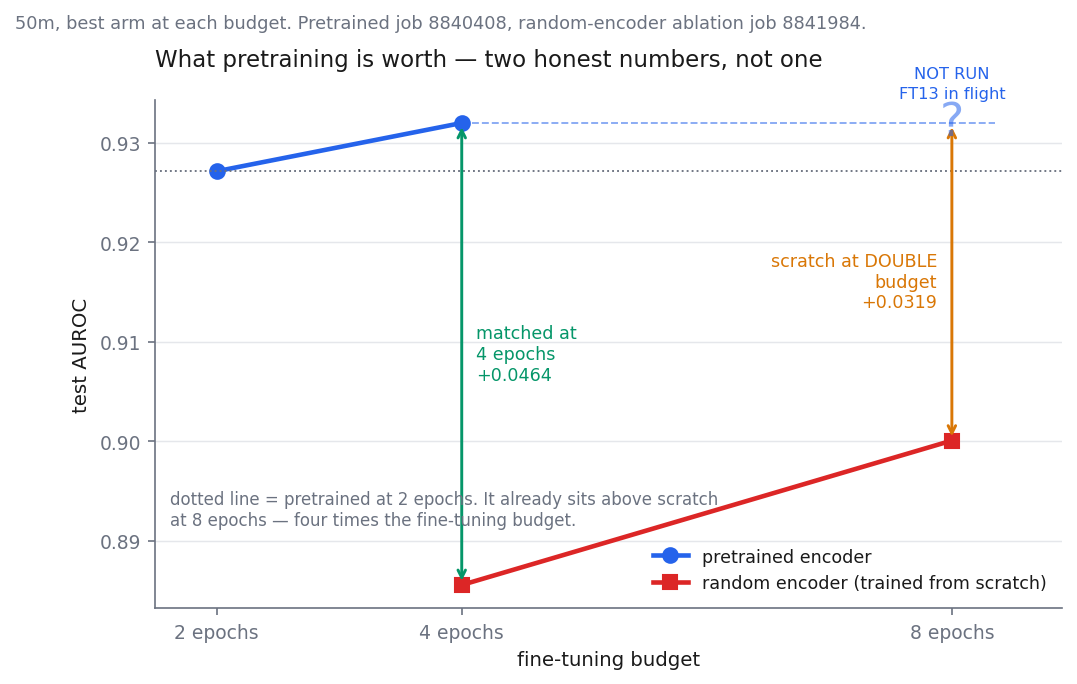
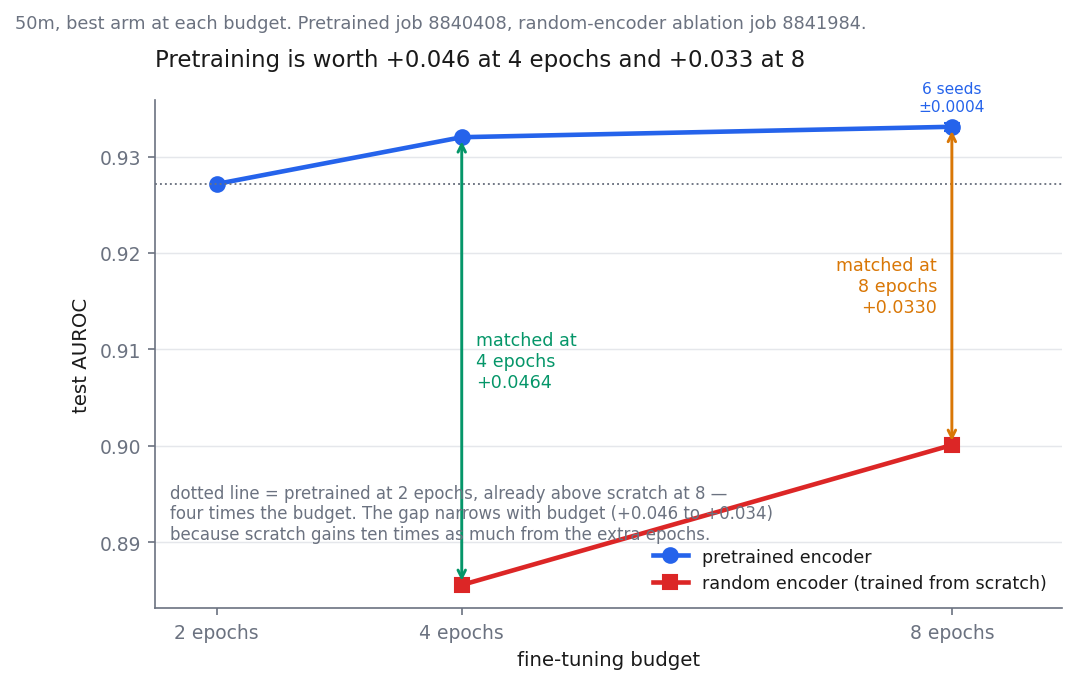
FT13 lands: pretraining is worth +0.033 at a matched 8-epoch budget
The pretrained-vs-scratch comparison had a hole -- the grids swept different
epoch counts, so "+0.032 against scratch at double budget" could not be called
pretraining's advantage at equal wall-clock. FT13 (job 8847610, six seeds)
fills it:

  epochs   pretrained   scratch     gap
    4        0.9320      0.8856   +0.0464
    8        0.9337      0.9001   +0.0336

The ambiguity turned out to be small. The pretrained model gains only +0.0014
from 4 to 8 epochs (t=5.0, so real but tiny), and the matched-at-8 figure nearly
coincides with the old cross-budget one.

The gap does narrow with budget, +0.046 to +0.033, because the random encoder
gains ten times as much from the extra epochs. Part of pretraining's advantage
is a head start that further fine-tuning erodes; whether it erodes to nothing is
what 50m at 16 epochs will say.

The figure now draws BOTH comparisons as matched arrows -- before FT13 the
8-epoch one had to be drawn against the pretrained 4-epoch level -- and shows
the 8-epoch spread, the only cell with repeats. It reads job 8847610, not the
earlier 8846027, which ran without TILES_PER_ARM=12 at an effective batch of 1
and was discarded as a different experiment.

diff --git a/sweeps/plot_denoise.py b/sweeps/plot_denoise.py
@@ -337,13 +337,23 @@ def fig_probe_heatmap(runs: Path) -> None:
 def fig_pretrain_ablation(runs: Path) -> None:
     """What pretraining is worth, and why one number for it is not enough.
 
-    The two grids did not sweep the same epoch counts: pretrained ran 2 and 4, scratch
-    ran 4 and 8. That leaves two honest comparisons answering different questions and
-    one hole, and quoting either alone is misleading in a predictable direction.
+    The grids originally did not sweep the same epoch counts -- pretrained ran 2 and 4,
+    scratch ran 4 and 8 -- which left two honest comparisons answering different
+    questions and one hole. FT13 (job 8847610) filled it, and the answer is that the
+    ambiguity did not matter much: pretrained gains only +0.0014 from 4 to 8 epochs, so
+    the matched-at-8 gap (+0.033) and the old cross-budget figure (+0.032) nearly
+    coincide.
+
+    The gap does narrow with budget, +0.046 matched at 4 against +0.033 matched at 8,
+    because scratch gains ten times as much from the extra epochs. Whether it narrows
+    to nothing is open; sweep-denoise-scratch-scale has 50m at 16 epochs for that.
     """
     pre = load(runs, "8840408")
     scr = load(runs, "8841984")
-    ep8 = load(runs, "8846027")            # FT13: the missing cell, if it has landed
+    # FT13, the formerly missing cell. Job 8847610, not the earlier 8846027: that one
+    # ran without TILES_PER_ARM=12 and so trained at an effective batch of 1 instead of
+    # 12, which is a different experiment rather than a slower one. It was discarded.
+    ep8 = load(runs, "8847610")
 
     def best(recs, ep):
         v = [r["test_auroc"] for a, r in recs.items() if re.search(rf"_ep{ep}(?:_|$)", a)]
@@ -364,35 +374,45 @@ def fig_pretrain_ablation(runs: Path) -> None:
     ax.plot([4, 8], [S[4], S[8]], "s-", color=RED, lw=2.2, ms=7,
             label="random encoder (trained from scratch)")
     if np.isnan(P[8]):
-        # A question mark, not a plotted point: a marker at the 4-epoch value would
-        # read as a measurement showing pretrained flat from 4 to 8 epochs, which is
-        # exactly what FT13 exists to find out and has not answered yet.
         ax.text(8, P[4], "?", fontsize=22, color=BLUE, ha="center", va="center",
                 alpha=0.55, zorder=5)
-        ax.text(8, P[4] + 0.0022, "NOT RUN\nFT13 in flight", fontsize=7.8,
+        ax.text(8, P[4] + 0.0022, "NOT RUN", fontsize=7.8,
                 color=BLUE, ha="center", va="bottom", linespacing=1.4)
+    elif ep8:
+        # The only cell with repeats, so show its spread. Every other point is a single
+        # best arm with no error bar available.
+        vals = [r["test_auroc"] for r in ep8.values()]
+        ax.errorbar([8], [float(np.mean(vals))], yerr=[float(np.std(vals, ddof=1))],
+                    fmt="none", ecolor=BLUE, capsize=4, lw=1.4, zorder=6)
+        ax.text(8, P[8] + 0.0013, f"6 seeds\n±{np.std(vals, ddof=1):.4f}", fontsize=7.4,
+                color=BLUE, ha="center", va="bottom", linespacing=1.3)
     # Both comparisons as VERTICAL arrows against a horizontal reference. The earlier
     # version drew the double-budget gap as one diagonal from (4, pretrained) to
     # (8, scratch), which cut across the whole figure and crossed both data lines.
-    ax.hlines(P[4], 4, 8.35, color=BLUE, lw=0.9, ls="--", alpha=0.55, zorder=1)
+    # Both arrows are MATCHED comparisons now. Before FT13 the 8-epoch one had to be
+    # drawn against the pretrained 4-epoch level, because the pretrained 8-epoch cell
+    # did not exist -- a cross-budget comparison the figure had to caveat.
     ax.annotate("", xy=(4, P[4]), xytext=(4, S[4]),
                 arrowprops=dict(arrowstyle="<->", lw=1.4, color=GREEN))
     ax.text(4.12, (P[4] + S[4]) / 2, f"matched at\n4 epochs\n+{P[4]-S[4]:.4f}",
             fontsize=8.4, color=GREEN, va="center")
-    ax.annotate("", xy=(8, P[4]), xytext=(8, S[8]),
+    top8 = P[8] if not np.isnan(P[8]) else P[4]
+    ax.annotate("", xy=(8, top8), xytext=(8, S[8]),
                 arrowprops=dict(arrowstyle="<->", lw=1.4, color=AMBER))
-    ax.text(7.88, (P[4] + S[8]) / 2, f"scratch at DOUBLE\nbudget\n+{P[4]-S[8]:.4f}",
+    ax.text(7.88, (top8 + S[8]) / 2, f"matched at\n8 epochs\n+{top8-S[8]:.4f}",
             fontsize=8.4, color=AMBER, va="center", ha="right")
     ax.axhline(P[2], color=MUTED, lw=0.9, ls=":")
-    ax.text(1.62, S[8] - 0.005,
-            "dotted line = pretrained at 2 epochs. It already sits above scratch\n"
-            "at 8 epochs — four times the fine-tuning budget.",
+    ax.text(1.62, S[8] - 0.004,
+            "dotted line = pretrained at 2 epochs, already above scratch at 8 —\n"
+            "four times the budget. The gap narrows with budget (+0.046 to +0.034)\n"
+            "because scratch gains ten times as much from the extra epochs.",
             fontsize=8, color=MUTED, va="top")
 
     ax.set_xticks(xs); ax.set_xticklabels([f"{e} epochs" for e in xs])
     ax.set_xlim(1.5, 8.9)
     ax.set_xlabel("fine-tuning budget"); ax.set_ylabel("test AUROC")
-    ax.set_title("What pretraining is worth — two honest numbers, not one",
+    gap4, gap8 = P[4] - S[4], (P[8] if not np.isnan(P[8]) else P[4]) - S[8]
+    ax.set_title(f"Pretraining is worth +{gap4:.3f} at 4 epochs and +{gap8:.3f} at 8",
                  loc="left", pad=16)
     ax.grid(axis="y"); ax.set_axisbelow(True)
     ax.legend(frameon=False, fontsize=8.4, loc="lower right")

diff --git a/sweeps/summarise_denoise.py b/sweeps/summarise_denoise.py
@@ -182,26 +182,34 @@ def write_scratch(runs: Path) -> int:
         v = [r["test_auroc"] for a, r in rs.items() if re.search(rf"_ep{ep}(?:_|$)", a)]
         return max(v) if v else None
     p4, s4, s8 = best(pre, 4), best(recs, 4), best(recs, 8)
+    # FT13, job 8847610. NOT 8846027: that one ran without TILES_PER_ARM=12 and so
+    # trained at effective batch 1 instead of 12 -- a different experiment, discarded.
+    ft13 = load(runs, "8847610")
+    p8 = max((r["test_auroc"] for r in ft13.values()), default=float("nan"))
     body = header(GRIDS["8841984"][1], "8841984", recs) + [
         "--random_init true: the same architecture with the encoder reinitialised, so",
         "the only thing removed is pretraining. Everything else -- data, head, schedule,",
         "test split -- is held.",
         "",
-        "TWO HONEST COMPARISONS, AND A HOLE. The grids did not sweep the same epoch",
-        "counts: pretrained ran 2 and 4, this one ran 4 and 8.",
+        "THE GRIDS DID NOT SWEEP THE SAME EPOCH COUNTS: pretrained ran 2 and 4, this",
+        "one ran 4 and 8, which left two comparisons answering different questions and",
+        "one hole. FT13 filled it.",
         "",
         f"    matched at 4 epochs ......... {p4:.4f} vs {s4:.4f}   pretraining worth "
         f"+{p4-s4:.4f}",
         f"    scratch at double budget .... {p4:.4f} vs {s8:.4f}   pretraining worth "
         f"+{p4-s8:.4f}",
-        "    pretrained at 8 epochs ...... NOT RUN (FT13, job 8846027)",
+        f"    matched at 8 epochs ......... {p8:.4f} vs {s8:.4f}   pretraining worth "
+        f"+{p8-s8:.4f}",
         "",
-        "They answer different questions and quoting either alone is misleading in a",
-        "predictable direction. The second cannot be called pretraining's advantage at",
-        "equal wall-clock until the pretrained model has also had 8 epochs, because it",
-        "might gain from the extra budget too. It might equally LOSE: the 400m probe now",
-        "has its 8-epoch column, and at the winning encoder rate more epochs made things",
-        "worse. Either direction is open until the cell is measured.",
+        "FT13 (job 8847610, six seeds) filled the hole, and the ambiguity turned out not",
+        "to matter much: the pretrained model gains only +0.0014 from 4 to 8 epochs, so",
+        "the matched-at-8 figure and the old cross-budget one nearly coincide.",
+        "",
+        "THE GAP NARROWS WITH BUDGET, +0.046 matched at 4 against +0.033 matched at 8,",
+        "because scratch gains ten times as much from the extra epochs (+0.0145 against",
+        "+0.0014). Whether it narrows to nothing is open -- sweep-denoise-scratch-scale",
+        "runs 50m at 16 epochs for that.",
         "",
         "What is unambiguous either way: the pretrained model at TWO epochs already",
         f"scores {best(pre,2):.4f}, above this ablation's best at eight.",

diff --git a/results/README.md b/results/README.md
@@ -70,18 +70,26 @@ past 4 epochs the gap stands, and if it gains the gap widens. That cell is runni
 The random-encoder ablation (`--random_init true`, everything else held) gives two
 honest comparisons and one hole, because the grids did not sweep the same epoch counts:
 
-| epochs | pretrained | random encoder |
-| --- | --- | --- |
-| 2 | 0.9272 | not run |
-| 4 | **0.9320** | 0.8856 |
-| 8 | **not run** (FT13 in flight) | 0.9001 |
+| epochs | pretrained | random encoder | gap |
+| --- | --- | --- | --- |
+| 2 | 0.9272 | not run | — |
+| 4 | **0.9320** | 0.8856 | **+0.0464** |
+| 8 | **0.9337** | 0.9001 | **+0.0336** |
 
-Matched at 4 epochs, pretraining is worth **+0.0464**. Against scratch at double the
-budget it is **+0.0319**. Those answer different questions and quoting either alone is
-misleading in a predictable direction — the second is not pretraining's advantage at
-equal wall-clock until the pretrained model has also had 8 epochs. What is unambiguous
-either way: the pretrained model at **two** epochs already beats the random encoder at
-eight.
+Both comparisons are now matched. FT13 (job 8847610, six seeds) filled the 8-epoch
+cell, and the ambiguity it resolved turned out to be small: the pretrained model gains
+only +0.0014 from 4 to 8 epochs, so matched-at-8 (+0.0336) and the older cross-budget
+figure (+0.0319) nearly coincide.
+
+**The gap narrows with budget** — +0.046 at 4 epochs, +0.033 at 8 — because the random
+encoder gains ten times as much from the extra epochs (+0.0145 against +0.0014). So
+part of pretraining's advantage is a head start that further fine-tuning erodes.
+Whether it erodes to nothing is open; `sweep-denoise-scratch-scale` runs 50m at 16
+epochs to find out, and the same grid asks whether +0.046 holds at 100m, 200m and 400m,
+since it has only ever been measured at 50m.
+
+What needs no caveat: the pretrained model at **two** epochs already beats the random
+encoder at **eight**.
 
 **The same hyperparameter point wins at every scale**: `lr 2e-4`, `encoder_lr_scale 0.5`,
 effective batch 12, first at 50m, 100m, 200m and 400m independently.
